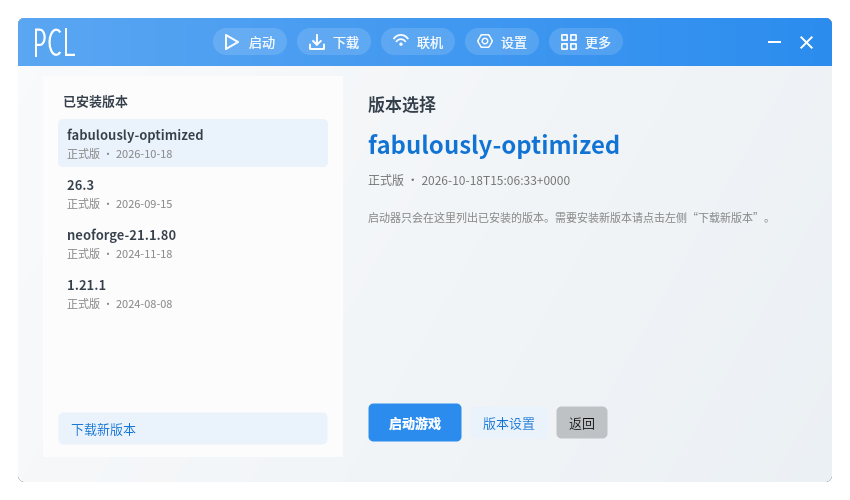
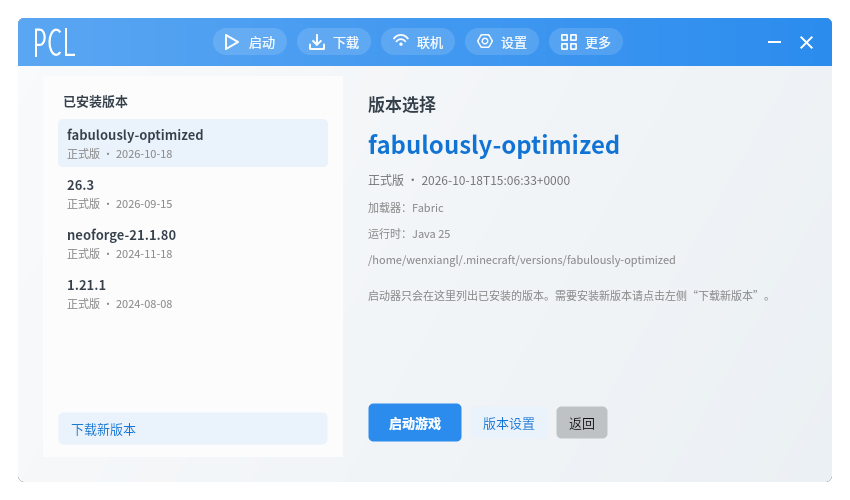
Fix: installed-version details and launch guard

Changed region(s): [[0.4282, 0.39, 0.8871, 0.48], [0.4282, 0.57, 0.8871, 0.6], [0.4282, 0.51, 0.7953, 0.54]]

diff --git a/src/WMCL.App/ViewModels/VersionSelectViewModel.cs b/src/WMCL.App/ViewModels/VersionSelectViewModel.cs
@@ -1,6 +1,8 @@
 using System.Collections.ObjectModel;
 using CommunityToolkit.Mvvm.ComponentModel;
 using CommunityToolkit.Mvvm.Input;
+using WMCL.App.Services;
+using WMCL.Minecraft;
 
 namespace WMCL.App.ViewModels;
 
@@ -8,22 +10,35 @@ namespace WMCL.App.ViewModels;
 public partial class VersionSelectViewModel : ViewModelBase
 {
     private readonly LaunchViewModel _launch;
+    private readonly AppServices _services;
     private readonly Action _close;
     private readonly Action _download;
 
     public VersionSelectViewModel(
         LaunchViewModel launch,
+        AppServices services,
         Action close,
         Action download)
     {
         _launch = launch;
+        _services = services;
         _close = close;
         _download = download;
         SelectedVersion = launch.SelectedVersion is { IsInstalled: true } selected
             ? selected
             : Versions.FirstOrDefault();
         Versions.CollectionChanged += (_, _) => RefreshSelection();
+        _ = LoadDetailsAsync(SelectedVersion);
     }
+
+    [ObservableProperty]
+    private string _versionLoader = "";
+
+    [ObservableProperty]
+    private string _versionPath = "";
+
+    [ObservableProperty]
+    private string _versionJava = "";
 
     public void RefreshSelection()
     {
@@ -32,6 +47,41 @@ public partial class VersionSelectViewModel : ViewModelBase
             SelectedVersion = _launch.SelectedVersion is { IsInstalled: true } selected
                 ? selected
                 : Versions.FirstOrDefault();
+        _ = LoadDetailsAsync(SelectedVersion);
+    }
+
+    private async Task LoadDetailsAsync(VersionItem? version)
+    {
+        if (version is null)
+        {
+            VersionLoader = "";
+            VersionPath = "";
+            VersionJava = "";
+            return;
+        }
+        VersionPath = Path.Combine(
+            _services.Settings.GameDirectory, "versions", version.Id);
+        try
+        {
+            var json = await _services.Repository.GetVersionAsync(version.Id);
+            VersionLoader = MinecraftVersionUtil.GetLoader(json) switch
+            {
+                "fabric" => "Fabric",
+                "forge" => "Forge",
+                "neoforge" => "NeoForge",
+                "quilt" => "Quilt",
+                "optifine" => "OptiFine",
+                _ => "原版"
+            };
+            VersionJava = json.JavaVersion?.MajorVersion is { } major
+                ? $"Java {major}"
+                : "自动选择 Java";
+        }
+        catch
+        {
+            VersionLoader = "未知";
+            VersionJava = "未知";
+        }
     }
 
     public ObservableCollection<VersionItem> Versions => _launch.InstalledVersions;
@@ -49,6 +99,7 @@ public partial class VersionSelectViewModel : ViewModelBase
     {
         OnPropertyChanged(nameof(SelectedVersionTitle));
         OnPropertyChanged(nameof(SelectedVersionInfo));
+        _ = LoadDetailsAsync(value);
     }
 
     [RelayCommand]

diff --git a/src/WMCL.App/ViewModels/LaunchViewModel.cs b/src/WMCL.App/ViewModels/LaunchViewModel.cs
@@ -88,13 +88,9 @@ public partial class LaunchViewModel : ViewModelBase
     public bool HasInstalledVersions => InstalledVersions.Count > 0;
     public ObservableCollection<AuthlibAccount> AuthlibAccounts { get; } = [];
     public bool HasAuthlibAccounts => AuthlibAccounts.Count > 0;
-    public ObservableCollection<string> Filters { get; } = ["全部", "已安装", "正式版", "快照"];
     public string GameDirectory => _services.Settings.GameDirectory;
     public bool HasVersions => Versions.Count > 0;
     public string SelectedVersionTitle => SelectedVersion?.Id ?? "选择一个版本";
-
-    [ObservableProperty]
-    private string _selectedFilter = "全部";
 
     [ObservableProperty]
     private VersionItem? _selectedVersion;
@@ -125,9 +121,6 @@ public partial class LaunchViewModel : ViewModelBase
 
     [ObservableProperty]
     private string _versionInfo = "选择一个版本";
-
-    [ObservableProperty]
-    private bool _canInstall;
 
     [ObservableProperty]
     private bool _canLaunch;
@@ -362,8 +355,6 @@ public partial class LaunchViewModel : ViewModelBase
         }
     }
 
-    partial void OnSelectedFilterChanged(string value) => ApplyFilter();
-
     /// <summary>从版本选择浮层跳转到下载页。</summary>
 
 
@@ -476,14 +467,13 @@ public partial class LaunchViewModel : ViewModelBase
 
     private void UpdateCommands()
     {
-        CanInstall = !IsBusy && SelectedVersion is { IsInstalled: false };
         CanLaunch = !IsBusy && SelectedVersion is { IsInstalled: true };
     }
 
     private void ApplyFilter()
     {
         Versions.Clear();
-        foreach (var item in _all.Where(MatchesFilter))
+        foreach (var item in _all)
             Versions.Add(item);
         InstalledVersions.Clear();
         foreach (var item in _all.Where(item => item.IsInstalled))
@@ -499,14 +489,6 @@ public partial class LaunchViewModel : ViewModelBase
 
         OnPropertyChanged(nameof(HasVersions));
     }
-
-    private bool MatchesFilter(VersionItem item) => SelectedFilter switch
-    {
-        "已安装" => item.IsInstalled,
-        "正式版" => item.Type == "release",
-        "快照" => item.Type == "snapshot",
-        _ => true
-    };
 
     [RelayCommand]
     private async Task RefreshAsync() => await LoadAsync();
@@ -675,7 +657,12 @@ public partial class LaunchViewModel : ViewModelBase
     [RelayCommand]
     private async Task LaunchAsync()
     {
-        if (SelectedVersion is null || IsBusy) return;
+        if (IsBusy) return;
+        if (SelectedVersion is not { IsInstalled: true })
+        {
+            Status = "请先选择一个已安装版本（未安装版本请到下载页安装）";
+            return;
+        }
 
         var target = SelectedVersion;
         IsBusy = true;

diff --git a/src/WMCL.App/ViewModels/MainWindowViewModel.cs b/src/WMCL.App/ViewModels/MainWindowViewModel.cs
@@ -113,6 +113,7 @@ public partial class MainWindowViewModel : ViewModelBase, IDisposable
 
         VersionSelect = new VersionSelectViewModel(
             Launch,
+            Services,
             CloseVersionSelect,
             () => NavigateTo("download"));
         Launch.VersionSettingsRequested += async (_, id) =>

diff --git a/docs/UI_LOGIC_AUDIT.md b/docs/UI_LOGIC_AUDIT.md
@@ -16,9 +16,9 @@
 | # | 问题 | 影响 |
 |---|---|---|
 | 5 | ~~“版本选择”仍是浮层~~ | 已改为独立 `VersionSelectView` 页面：左侧已安装版本、右侧详情/操作 |
-| 6 | 版本详情仍只有 id/类型/时间，没有加载器、路径 | 信息仍少于 PCL2 |
-| 7 | `LaunchViewModel` 仍保留 `CanInstall`/`InstallAsync`，但启动页已无安装按钮 | 死逻辑，容易再次误用 |
-| 8 | `Filters`/`SelectedFilter` 仍保留在启动页 VM，但启动页已无筛选 UI | 死状态 |
+| 6 | ~~版本详情只有 id/类型/时间~~ | 已补加载器、Java 运行时、实例路径 |
+| 7 | ~~`LaunchViewModel` 保留 `CanInstall`~~ | 已移除 `CanInstall` 死状态；`InstallCommand` 仍用于 `--auto-install`，保留 |
+| 8 | ~~`Filters`/`SelectedFilter` 死状态~~ | 已移除启动页筛选状态和无用过滤方法 |
 | 9 | ~~下载页对已安装版本禁用“安装”~~ | 已允许对已安装版本重新下载/补全（仍会走安装器的跳过/SHA1 逻辑） |
 | 10 | 下载页加载器卡片仍是“单独安装”按钮，不是 PCL2 的组件勾选后统一安装 | 交互模型不同 |
 | 11 | 实例管理页是“列表 + 详情”双卡片，不是 PCL2 的“版本选择/设置”子导航页 | 页面结构不同 |
@@ -27,4 +27,4 @@
 
 ## 结论
 
-这确实是系统性的边界错误：启动页应只操作已安装实例，下载页才操作全部版本。本次已修正版本列表来源、无已安装时的默认选择、下载页导航、已安装版本重装入口，并把浮层改成独立版本选择页面。剩余 7 项按上表继续处理。
+这确实是系统性的边界错误：启动页应只操作已安装实例，下载页才操作全部版本。本次已修正版本列表来源、无已安装时的默认选择、下载页导航、已安装版本重装入口、版本详情、死状态，并把浮层改成独立版本选择页面。剩余 4 项按上表继续处理。
